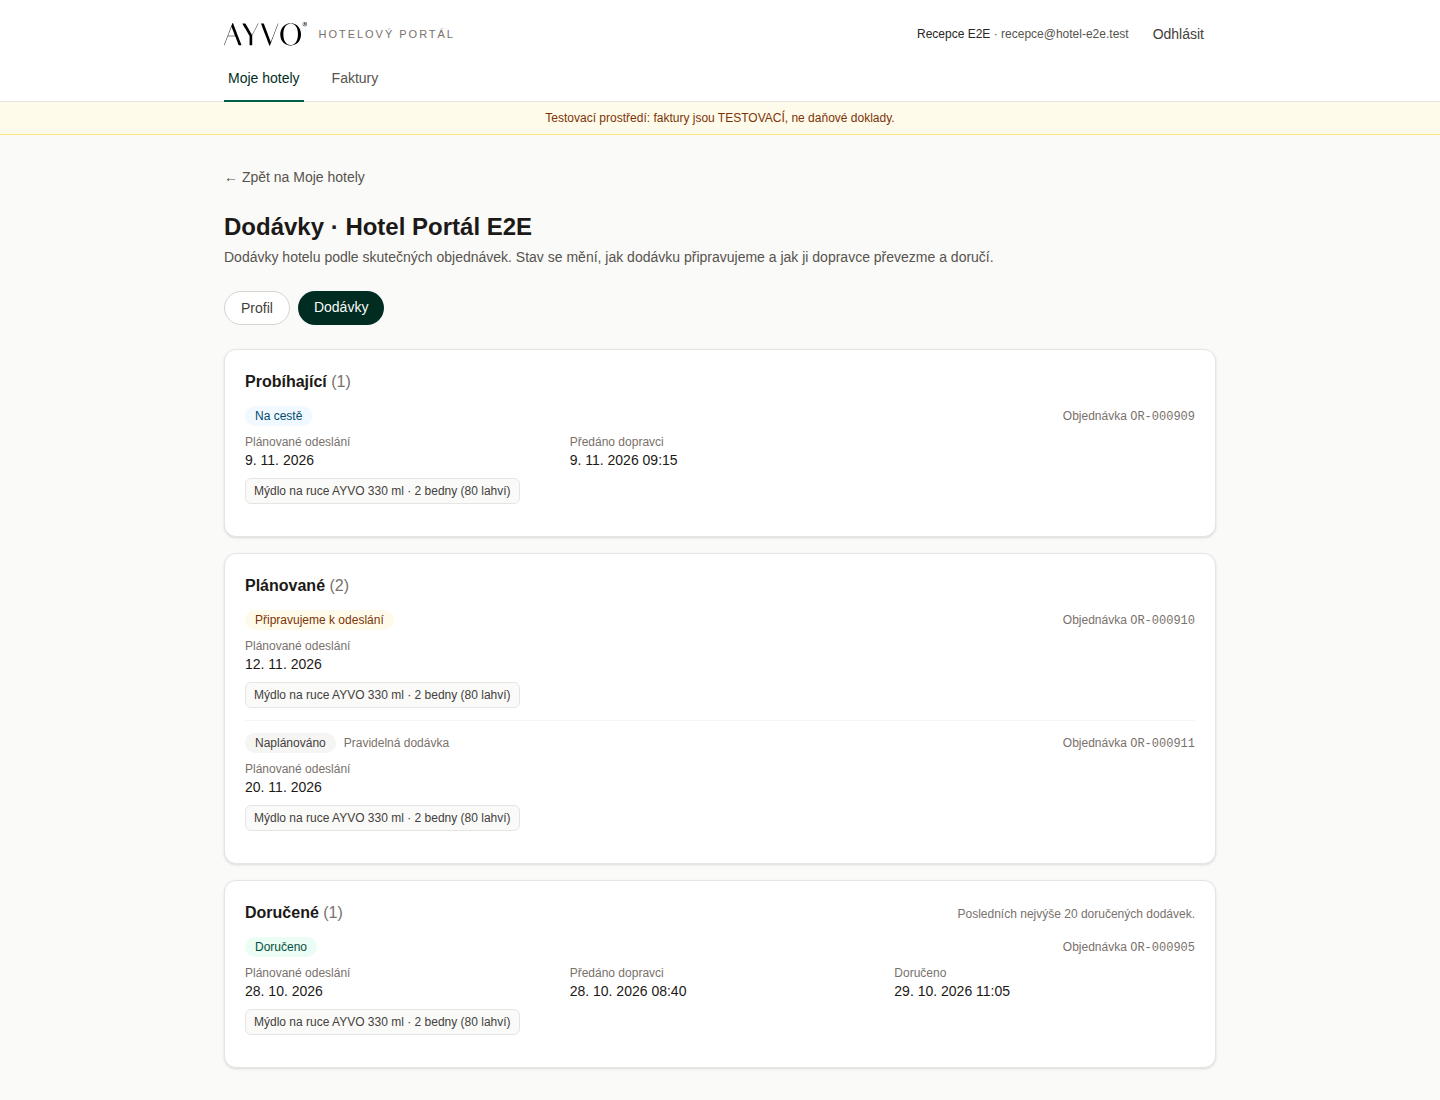
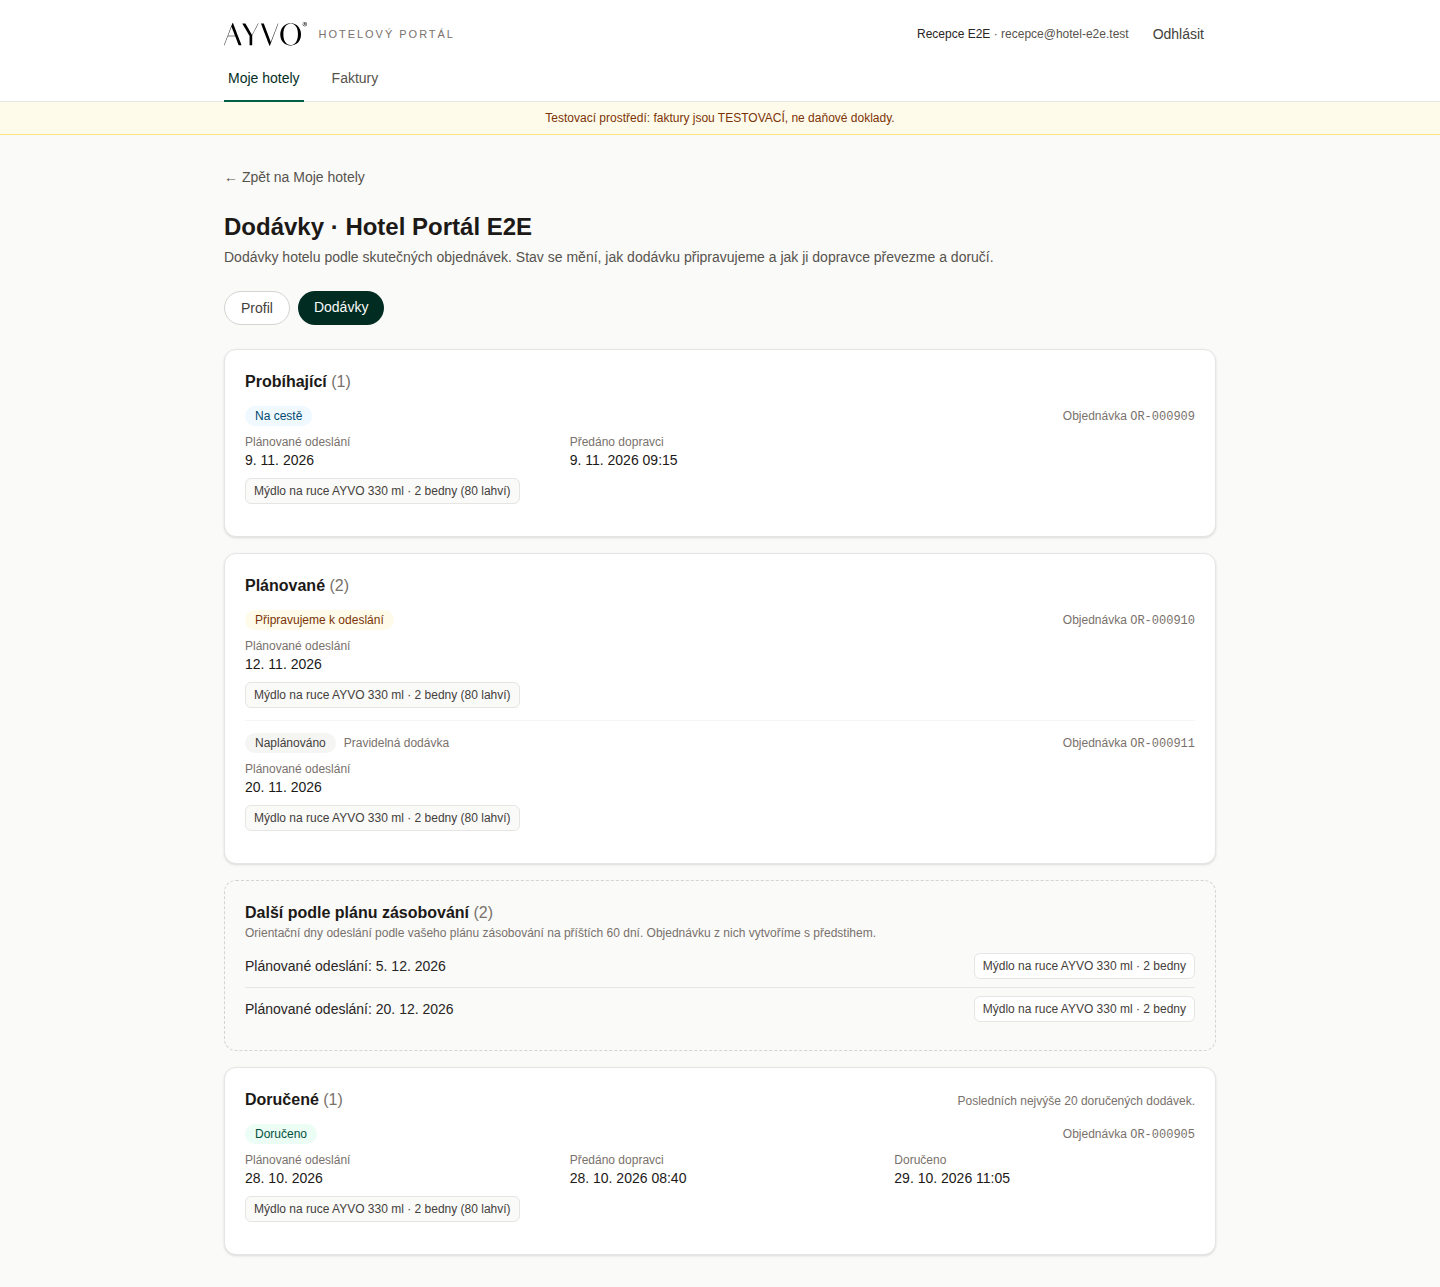
feat(portal): upcoming supply plan days in "Dodávky" (owner decisions 2026-11-09)
Owner, 2026-11-09: show future plan days so the hotel knows roughly when the next deliveries
come; never a tracking link or parcel number; never cancelled orders.

SupplyPlansService.portalUpcoming (exported): the days a switched-on plan still has from today
(serving site's time zone) for 60 days, without days that already have an occurrence (an order,
shown as a delivery, or a day that could not be ordered); products by name, whole crates; paused,
inactive or no plan → none. The deliveries route returns them as `upcoming`.

portal-web: "Další podle plánu zásobování" (indicative ship days, no arrival promise) and the
nearest delivery falls back to the plan's next day. Tests: the plan before and after its round
(ordered days move to deliveries, nothing lost or doubled), paused → none; the portal spec checks
the group, the fallback and that no tracking link appears.

diff --git a/apps/api/test/portal-deliveries.e2e.test.ts b/apps/api/test/portal-deliveries.e2e.test.ts
@@ -6,6 +6,7 @@ import { afterAll, beforeAll, describe, expect, it } from 'vitest';
 import { testCarrierControl } from '../src/carriers/test-carrier.js';
 import { InvitationsService } from '../src/identity/invitations.service.js';
 import { NativeTokensService } from '../src/identity/native-tokens.service.js';
+import { SupplyPlansService } from '../src/orders/supply-plans.service.js';
 import { PortalGrantsService } from '../src/portal-grants/portal-grants.service.js';
 import {
   cancelOrder,
@@ -13,6 +14,7 @@ import {
   crateFactory,
   createHotel,
   createOrder,
+  pragueToday,
   scanCrate,
 } from './support/order-fixtures.js';
 import { deliver, pickUp, RETURN_ENV, shipCrates } from './support/return-fixtures.js';
@@ -175,11 +177,70 @@ describe.skipIf(!hasDatabase)('hotel portal: deliveries', () => {
     expect(delivered.deliveredAt).not.toBeNull();
     expect(delivered.lines).toEqual([{ product: expect.any(String), crates: 1, bottles: 2 }]);
     expect(delivered.fromPlan).toBe(false);
+    expect(d.upcoming).toEqual([]); // no supply plan
     // Nothing internal: no site, crates, people, carrier account or labels.
     for (const o of [...d.planned, ...d.inProgress, ...d.delivered])
       expect(Object.keys(o).sort()).toEqual(
         ['code', 'deliveredAt', 'fromPlan', 'handedOverAt', 'lines', 'shipDate', 'state'].sort(),
       );
+  });
+
+  it('upcoming days of a switched-on plan, without days already ordered; nothing when paused', async () => {
+    const planned = await createHotel(su, { name: 'Hotel Plán dodávek' });
+    const base = `/api/admin/orders/hotel/${planned.code}/supply-plan`;
+    const http = () => request(su.app.getHttpServer());
+    await http()
+      .post(base)
+      .send({
+        requestId: randomUUID(),
+        reason: 'plán podle smlouvy',
+        validFrom: pragueToday(),
+        validTo: null,
+        rules: [{ productCode: product, crates: 2, days: [5, 20] }],
+      })
+      .expect(200);
+    const { version } = (await http().get(`${base}/preview`).expect(200)).body as {
+      version: number;
+    };
+    await http()
+      .post(`${base}/activate`)
+      .send({ requestId: randomUUID(), confirm: true, version })
+      .expect(200);
+    const a = await account();
+    await grant(a.user.id, [planned.id]);
+    const read = async () =>
+      (await get(`hotels/${planned.id}/deliveries`, a.session).expect(200))
+        .body as PortalDeliveries;
+
+    // Before the plan's round: every plan day of the next 60 days, whole crates only.
+    const before = await read();
+    const today = pragueToday();
+    const last = pragueToday(59);
+    expect(before.upcoming.length).toBeGreaterThanOrEqual(3);
+    for (const day of before.upcoming) {
+      expect(day.shipDate >= today && day.shipDate <= last).toBe(true);
+      expect(['05', '20']).toContain(day.shipDate.slice(8));
+      expect(day.lines).toEqual([{ product: expect.any(String), crates: 2 }]);
+    }
+    expect(before.planned).toEqual([]);
+
+    // The round orders the days inside its horizon: those become deliveries, the rest stay ahead.
+    await su.app.get(SupplyPlansService).runDue();
+    const after = await read();
+    const ordered = after.planned.map((o) => o.shipDate);
+    expect(after.planned.every((o) => o.fromPlan)).toBe(true);
+    expect(after.upcoming.map((d) => d.shipDate).some((day) => ordered.includes(day))).toBe(false);
+    expect([...ordered, ...after.upcoming.map((d) => d.shipDate)].sort()).toEqual(
+      before.upcoming.map((d) => d.shipDate).sort(),
+    );
+
+    await http()
+      .post(`${base}/pause`)
+      .send({ requestId: randomUUID(), reason: 'hotel v rekonstrukci' })
+      .expect(200);
+    const paused = await read();
+    expect(paused.upcoming).toEqual([]);
+    expect(paused.planned.map((o) => o.code)).toEqual(after.planned.map((o) => o.code));
   });
 
   it('another hotel or an unknown id is “not found”; without a session or with Finance’s token 401', async () => {

diff --git a/apps/portal/src/components/deliveries.tsx b/apps/portal/src/components/deliveries.tsx
@@ -107,7 +107,52 @@ function Group({
   );
 }
 
-/** The three groups of a hotel's deliveries. */
+/** Upcoming plan days: indicative ship days and whole crates (not orders yet). */
+function UpcomingGroup({ days }: { days: PortalDeliveries['upcoming'] }) {
+  return (
+    <section
+      aria-labelledby="deliveries-upcoming-title"
+      data-testid="deliveries-upcoming"
+      className="flex flex-col gap-3 rounded-xl border border-dashed border-stone-300 bg-stone-50 p-5"
+    >
+      <div>
+        <h2 id="deliveries-upcoming-title" className="text-base font-semibold text-stone-900">
+          {t.upcoming} <span className="font-normal text-stone-500">({days.length})</span>
+        </h2>
+        <p className="text-xs text-stone-500">{t.upcomingHelp}</p>
+      </div>
+      {days.length === 0 ? (
+        <p className="text-sm text-stone-500 italic">{t.noUpcoming}</p>
+      ) : (
+        <ul className="flex flex-col">
+          {days.map((d) => (
+            <li
+              key={d.shipDate}
+              className="flex flex-wrap items-center justify-between gap-2 border-t border-stone-200 py-2 first:border-t-0 first:pt-0"
+              data-testid={`upcoming-${d.shipDate}`}
+            >
+              <span className="text-sm font-medium text-stone-800">
+                {t.shipDate}: {formatDate(d.shipDate)}
+              </span>
+              <span className="flex flex-wrap gap-2">
+                {d.lines.map((l) => (
+                  <span
+                    key={l.product}
+                    className="rounded-md border border-stone-200 bg-white px-2 py-1 text-xs text-stone-700"
+                  >
+                    {l.product} · {t.crates(l.crates)}
+                  </span>
+                ))}
+              </span>
+            </li>
+          ))}
+        </ul>
+      )}
+    </section>
+  );
+}
+
+/** The groups of a hotel's deliveries, and what the supply plan still has ahead. */
 export function DeliveryGroups({ deliveries }: { deliveries: PortalDeliveries }) {
   return (
     <div className="flex flex-col gap-4">
@@ -123,6 +168,7 @@ export function DeliveryGroups({ deliveries }: { deliveries: PortalDeliveries })
         items={deliveries.planned}
         testId="deliveries-planned"
       />
+      <UpcomingGroup days={deliveries.upcoming} />
       <Group
         title={t.delivered}
         empty={t.noDelivered}
@@ -143,6 +189,7 @@ export function NextDeliveryCard({
   deliveries: PortalDeliveries | null;
 }) {
   const next = deliveries ? (deliveries.inProgress[0] ?? deliveries.planned[0] ?? null) : null;
+  const fromPlan = deliveries && !next ? (deliveries.upcoming[0] ?? null) : null;
   return (
     <section
       aria-labelledby="next-delivery-title"
@@ -158,6 +205,13 @@ export function NextDeliveryCard({
         ) : next ? (
           <p className="flex flex-wrap items-center gap-2 text-sm text-stone-700">
             <State state={next.state} /> {formatDate(next.shipDate)}
+          </p>
+        ) : fromPlan ? (
+          <p className="flex flex-wrap items-center gap-2 text-sm text-stone-700">
+            <span className="rounded-full bg-stone-100 px-2.5 py-0.5 text-xs font-medium text-stone-700">
+              {t.byPlan}
+            </span>{' '}
+            {formatDate(fromPlan.shipDate)}
           </p>
         ) : (
           <p className="text-sm text-stone-500 italic">{t.none}</p>

diff --git a/apps/api/src/orders/supply-plans.service.ts b/apps/api/src/orders/supply-plans.service.ts
@@ -1,5 +1,7 @@
 import { randomUUID } from 'node:crypto';
+import { PORTAL_UPCOMING_DAYS } from '@ayvo/types';
 import type {
+  PortalDeliveries,
   ActivateSupplyPlanRequest,
   SavedSupplyPreview,
   PauseSupplyPlanRequest,
@@ -63,6 +65,53 @@ export class SupplyPlansService {
   ) {}
 
   // --- reading ------------------------------------------------------------------------------
+
+  /**
+   * The hotel portal's upcoming plan days (doc 056, owner 2026-11-09): the days a switched-on plan
+   * still has from today (the serving site's time zone) for PORTAL_UPCOMING_DAYS, without days
+   * that already have an occurrence — an order (shown as a delivery) or a day that could not be
+   * ordered (an internal matter). Products by name, whole crates. A paused or inactive plan, or
+   * none, has no upcoming days. Through the caller's client (the portal's pool).
+   */
+  async portalUpcoming(
+    hotelId: string,
+    db: Prisma.TransactionClient = this.prisma,
+    now = new Date(),
+  ): Promise<PortalDeliveries['upcoming']> {
+    const plan = await db.supplyPlan.findUnique({
+      where: { hotelId },
+      include: {
+        rules: {
+          include: { product: { select: { code: true, name: true } } },
+          orderBy: { position: 'asc' },
+        },
+        site: { select: { timeZone: true } },
+      },
+    });
+    if (!plan || plan.status !== 'ACTIVE') return [];
+    const today = localDate(now, plan.site.timeZone);
+    const to = addDays(today, PORTAL_UPCOMING_DAYS - 1);
+    const names = new Map(plan.rules.map((r) => [r.product.code, r.product.name]));
+    const { days } = plannedDays(
+      plan.rules.map((r) => ({ productCode: r.product.code, crates: r.crates, days: r.days })),
+      { from: today, to },
+      { validFrom: iso(plan.validFrom), validTo: plan.validTo ? iso(plan.validTo) : null },
+    );
+    const taken = new Set(
+      (
+        await db.supplyPlanOccurrence.findMany({
+          where: { planId: plan.id, shipDate: { gte: dateOf(today), lte: dateOf(to) } },
+          select: { shipDate: true },
+        })
+      ).map((o) => iso(o.shipDate)),
+    );
+    return days
+      .filter((d) => !taken.has(d.shipDate))
+      .map((d) => ({
+        shipDate: d.shipDate,
+        lines: d.lines.map((l) => ({ product: names.get(l.productCode)!, crates: l.crates })),
+      }));
+  }
 
   /** The hotel's plan (or null) — the hotel must be served by the active site. */
   async get(site: SiteContext, hotelCode: string, now = new Date()): Promise<SupplyPlan | null> {

diff --git a/apps/api/src/portal/portal-contract.controller.ts b/apps/api/src/portal/portal-contract.controller.ts
@@ -40,6 +40,7 @@ import { domainError } from '../common/domain-error.js';
 import { ZodValidationPipe } from '../common/zod-validation.pipe.js';
 import { ContractDraftsService } from '../contracts/contract-drafts.service.js';
 import { OrdersService } from '../orders/orders.service.js';
+import { SupplyPlansService } from '../orders/supply-plans.service.js';
 import { ENV, type Env } from '../config/env.js';
 import { HotelsService } from '../customers/hotels.service.js';
 import { PortalServiceAccess } from '../identity/access.decorators.js';
@@ -86,6 +87,7 @@ export class PortalContractController {
     private readonly hotels: HotelsService,
     private readonly contracts: ContractDraftsService,
     private readonly orders: OrdersService,
+    private readonly plans: SupplyPlansService,
     private readonly limits: AuthRateLimitService,
     private readonly slots: PortalRequestLimit,
     private readonly db: PortalPrismaService,
@@ -330,7 +332,10 @@ export class PortalContractController {
 
   // --- "Dodávky" (real orders, read only) -------------------------------------------------
 
-  /** A granted hotel's deliveries in three groups; any other id is "not found". */
+  /**
+   * A granted hotel's deliveries in three groups and its upcoming plan days; any other id is "not
+   * found".
+   */
   @PortalServiceAccess()
   @Get('hotels/:id/deliveries')
   deliveriesOf(
@@ -343,7 +348,11 @@ export class PortalContractController {
         g.hotelIds.includes(id),
       );
       if (!allowed) throw domainError(404, 'HOTEL_NOT_FOUND', 'No such hotel');
-      return this.orders.portalDeliveries(id, this.db);
+      const [orders, upcoming] = await Promise.all([
+        this.orders.portalDeliveries(id, this.db),
+        this.plans.portalUpcoming(id, this.db),
+      ]);
+      return { ...orders, upcoming };
     });
   }
 

diff --git a/apps/portal/e2e/deliveries.spec.ts b/apps/portal/e2e/deliveries.spec.ts
@@ -81,8 +81,21 @@ test.describe('hotel portal: deliveries', () => {
     await expect(delivered.getByTestId('delivery-OR-000905')).toContainText('Doručeno');
     await expect(delivered).toContainText('29. 10. 2026');
     await expect(delivered).toContainText('Mýdlo na ruce AYVO 330 ml · 2 bedny (80 lahví)');
+    const upcoming = page.getByTestId('deliveries-upcoming');
+    await expect(upcoming.getByTestId('upcoming-2026-12-05')).toContainText('5. 12. 2026');
+    await expect(upcoming).toContainText('Mýdlo na ruce AYVO 330 ml · 2 bedny');
+    await expect(upcoming).toContainText('Orientační dny odeslání');
+    // Never a tracking link or parcel number (owner 2026-11-09).
+    await expect(page.locator('main a[href*="ppl"], main a[href*="track"]')).toHaveCount(0);
     await noSideways(page);
     await shot(page, 'deliveries');
+
+    // Only the plan ahead: the nearest delivery says it is by the plan.
+    await control(page, { deliveriesMode: 'plan-only' });
+    await page.goto(`/hotels/${id}`);
+    await expect(next).toContainText('Podle plánu');
+    await expect(next).toContainText('5. 12. 2026');
+    await page.goto(`/hotels/${id}/deliveries`);
 
     await control(page, { deliveriesMode: 'none' });
     await page.reload();
@@ -91,6 +104,9 @@ test.describe('hotel portal: deliveries', () => {
     );
     await expect(page.getByTestId('deliveries-delivered')).toContainText(
       'Zatím žádná doručená dodávka.',
+    );
+    await expect(page.getByTestId('deliveries-upcoming')).toContainText(
+      'Žádný další den podle plánu zásobování.',
     );
     await page.goto(`/hotels/${id}`);
     await expect(next).toContainText('Žádná dodávka není naplánovaná ani na cestě.');

diff --git a/packages/types/src/portal.ts b/packages/types/src/portal.ts
@@ -177,9 +177,22 @@ export const portalDeliveriesSchema = z.object({
   inProgress: z.array(portalDeliverySchema),
   /** The latest delivered ones (at most PORTAL_DELIVERED_MAX), newest first. */
   delivered: z.array(portalDeliverySchema),
+  /**
+   * Days the hotel's switched-on supply plan still has ahead (owner 2026-11-09: so the hotel
+   * knows roughly when the next ones come), for PORTAL_UPCOMING_DAYS from today, without days
+   * that already have an order (those are in `planned`) or that could not be ordered. Only ship
+   * days and whole crates; indicative, not an order.
+   */
+  upcoming: z.array(
+    z.object({
+      shipDate: z.iso.date(),
+      lines: z.array(z.object({ product: z.string(), crates: z.int() })),
+    }),
+  ),
 });
 export type PortalDeliveries = z.infer<typeof portalDeliveriesSchema>;
 export const PORTAL_DELIVERED_MAX = 20;
+export const PORTAL_UPCOMING_DAYS = 60;
 
 /** The browser → portal-web body of a profile save (whitelisted fields only). */
 export const portalHotelProfileUpdateSchema = z.strictObject({

diff --git a/apps/portal/src/i18n/cs.ts b/apps/portal/src/i18n/cs.ts
@@ -130,6 +130,11 @@ export const cs = {
     order: 'Objednávka',
     crates: (n: number) => (n === 1 ? '1 bedna' : n < 5 ? `${n} bedny` : `${n} beden`),
     bottles: (n: number) => `${n} lahví`,
+    upcoming: 'Další podle plánu zásobování',
+    upcomingHelp:
+      'Orientační dny odeslání podle vašeho plánu zásobování na příštích 60 dní. Objednávku z nich vytvoříme s předstihem.',
+    noUpcoming: 'Žádný další den podle plánu zásobování.',
+    byPlan: 'Podle plánu',
     next: 'Nejbližší dodávka',
     none: 'Žádná dodávka není naplánovaná ani na cestě.',
     open: 'Zobrazit dodávky',

diff --git a/apps/api/src/orders/orders.module.ts b/apps/api/src/orders/orders.module.ts
@@ -48,7 +48,7 @@ import { SupplyPlansService } from './supply-plans.service.js';
     SupplyPlanRunner,
     OrderReturnsService,
   ],
-  // The hotel portal reads a granted hotel's deliveries (OrdersService.portalDeliveries).
-  exports: [OrderReturnsService, OrdersService],
+  // The hotel portal reads a granted hotel's deliveries and upcoming plan days.
+  exports: [OrderReturnsService, OrdersService, SupplyPlansService],
 })
 export class OrdersModule {}

diff --git a/apps/api/src/orders/orders.service.ts b/apps/api/src/orders/orders.service.ts
@@ -192,7 +192,7 @@ export class OrdersService implements OnModuleInit {
   async portalDeliveries(
     hotelId: string,
     db: Prisma.TransactionClient = this.prisma,
-  ): Promise<PortalDeliveries> {
+  ): Promise<Omit<PortalDeliveries, 'upcoming'>> {
     const select = {
       id: true,
       code: true,

diff --git a/docs/056-hotel-portal-deliveries.md b/docs/056-hotel-portal-deliveries.md
@@ -42,9 +42,15 @@ carrier accounts or connections, parcel numbers, people, cancel reasons or inter
 
   The profile never fails because of deliveries.
 
-## Open for the owner
+## Owner decisions (2026-11-09)
 
-- Should future days of the supply plan beyond the 14-day horizon also be shown? Today only real
-  orders are shown.
-- Should the carrier's parcel number or a tracking link be shown? Not shown today.
-- Should cancelled orders be shown, and with what reason? Not shown today.
+- **Future plan days are shown**, so the hotel knows roughly when the next deliveries come.
+  `upcoming` covers the days a switched-on supply plan still has from today for 60 days, in the
+  serving site's time zone. It skips days that already have an order (those are shown as
+  deliveries) and days that could not be ordered (an internal matter). Each day shows only the
+  ship day and whole crates per product, and is marked as indicative. A paused or inactive plan
+  shows nothing. `SupplyPlansService.portalUpcoming` owns this.
+- **No tracking link or parcel number** is shown; it cannot be relied on.
+- **Cancelled orders are not shown.**
+
+No transit time is promised: the portal shows planned ship days, never an arrival estimate.
